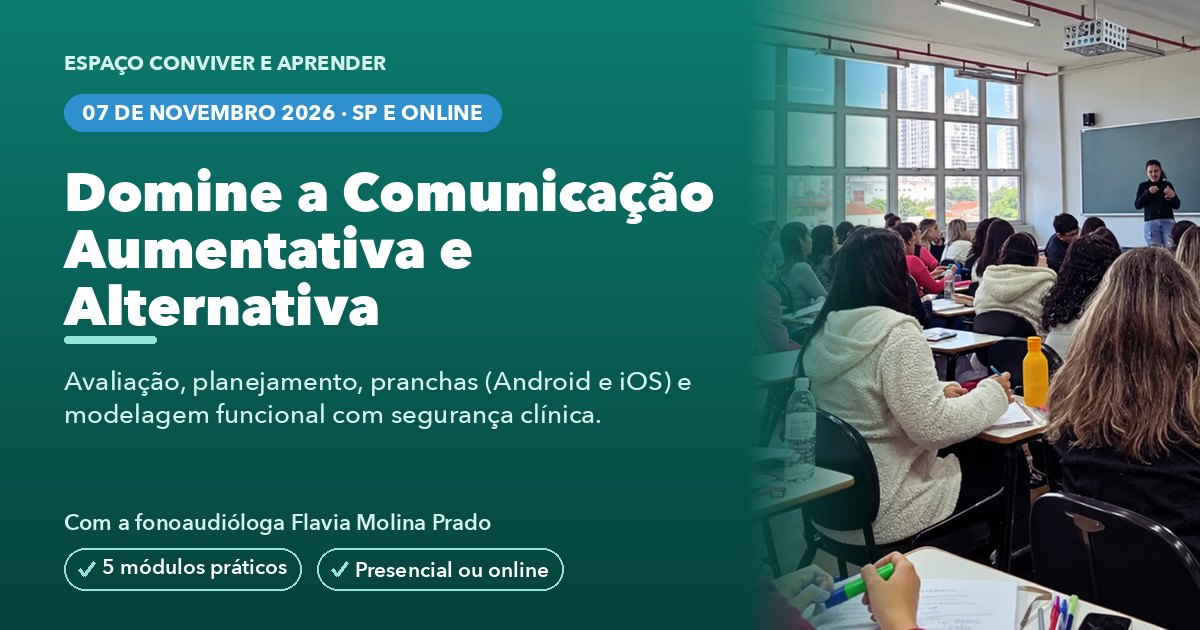
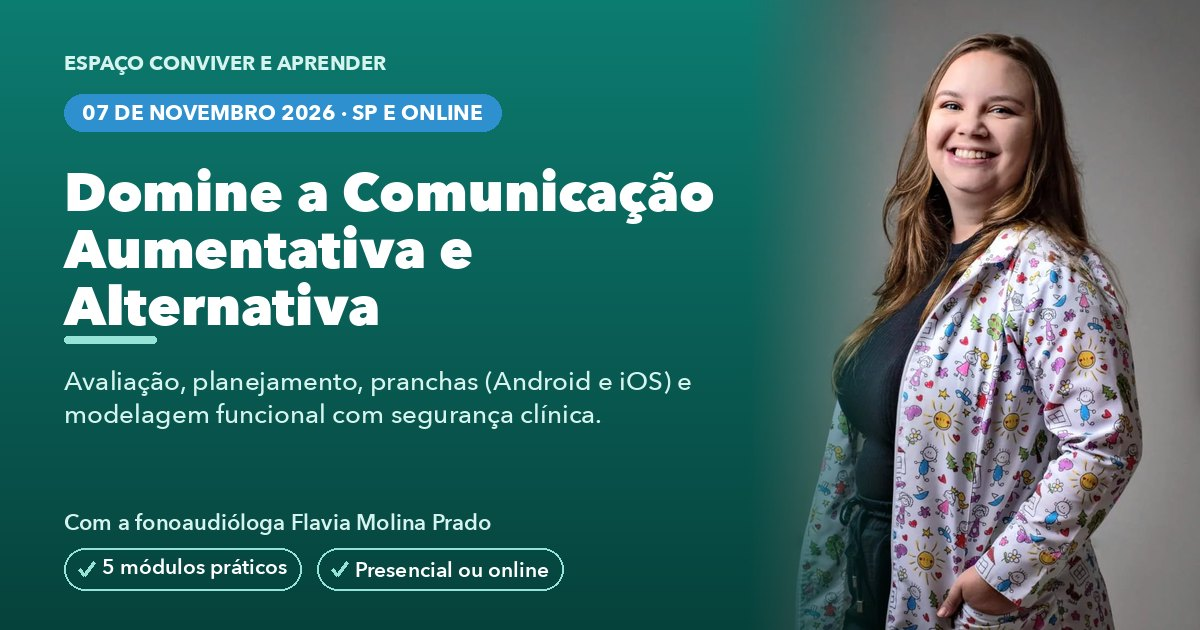
feat: fotos reais da pagina antiga do CAA (hero e professora Flavia + sala) e card OG

diff --git a/index.html b/index.html
@@ -509,7 +509,7 @@ footer a{color:var(--coral-2)}
         <a class="btn btn-wa btn-lg" href="https://api.whatsapp.com/send?phone=5511948774794&text=Ol%C3%A1,%20vim%20do%20site%20e%20quero%20mais%20informa%C3%A7%C3%B5es%20sobre%20o%20Curso%20de%20CAA" target="_blank" rel="noopener"><svg viewBox="0 0 24 24" fill="currentColor"><path d="M17.5 14.4c-.3-.1-1.8-.9-2-1-.3-.1-.5-.1-.7.1-.2.3-.7 1-.9 1.1-.2.2-.3.2-.6.1-1.6-.8-2.6-1.4-3.7-3.2-.3-.5.3-.5.8-1.5.1-.2 0-.4 0-.5 0-.1-.7-1.6-.9-2.2-.2-.6-.5-.5-.7-.5h-.5c-.2 0-.5.1-.8.4-.3.3-1 1-1 2.5s1.1 2.9 1.2 3.1c.2.2 2.1 3.3 5.2 4.6 2 .8 2.7.9 3.7.8.6-.1 1.8-.8 2.1-1.5.3-.7.3-1.4.2-1.5z"/></svg>Falar no WhatsApp</a>
       </div>
       <div class="hero-photo-mobile">
-        <img src="assets/hero-aba.webp?v=1" alt="Formação presencial da Conviver e Aprender" width="1254" height="1254" style="object-position:center 42%">
+        <img src="assets/hero-caa.webp?v=1" alt="Flavia Molina Prado, fonoaudióloga do Curso de CAA" width="849" height="1280" style="object-position:center 22%">
         <span class="hv-seal"><small>AO VIVO</small><b>07/11</b><small>2026</small></span>
         <div class="hv-cap"><span>Com a fonoaudióloga <b>Flavia Molina Prado</b></span></div>
       </div>
@@ -524,7 +524,7 @@ footer a{color:var(--coral-2)}
     </div>
     <div class="hv">
       <div class="hv-frame">
-        <img src="assets/hero-aba.webp?v=1" alt="Formação presencial da Conviver e Aprender" width="1254" height="1254" fetchpriority="high" style="object-position:center 42%">
+        <img src="assets/hero-caa.webp?v=1" alt="Flavia Molina Prado, fonoaudióloga do Curso de CAA" width="849" height="1280" fetchpriority="high" style="object-position:center 22%">
         <span class="hv-seal"><small>AO VIVO</small><b>07/11</b><small>2026</small></span>
         <div class="hv-cap"><span>Com a fonoaudióloga <b>Flavia Molina Prado</b></span></div>
       </div>
@@ -617,7 +617,7 @@ footer a{color:var(--coral-2)}
   <div class="wrap">
     <div class="section-head rv"><span class="eyebrow"><span class="dot"></span>Quem vai te formar</span><h2>Conheça sua professora</h2></div>
     <div class="profs" style="grid-template-columns:1fr;max-width:640px">
-      <div class="prof pcard rv"><div class="mono">FM</div><div><h3>Flavia Molina Prado</h3><div class="role">Fonoaudióloga (FMU) · Especialista em desenvolvimento infantil</div><p>Fonoaudióloga formada pela FMU e apaixonada pelo desenvolvimento infantil. Ajuda crianças e adolescentes a desenvolver uma comunicação eficaz, atuando principalmente nas áreas de transtornos da aquisição de fala e linguagem, leitura e escrita, Transtorno do Espectro do Autismo e Comunicação Aumentativa e Alternativa.</p></div></div>
+      <div class="prof pcard rv"><img class="pfoto" src="assets/flavia.webp?v=1" alt="Flavia Molina Prado com uma prancha de CAA" width="64" height="64" loading="lazy"><div><h3>Flavia Molina Prado</h3><div class="role">Fonoaudióloga (FMU) · Especialista em desenvolvimento infantil</div><p>Fonoaudióloga formada pela FMU e apaixonada pelo desenvolvimento infantil. Ajuda crianças e adolescentes a desenvolver uma comunicação eficaz, atuando principalmente nas áreas de transtornos da aquisição de fala e linguagem, leitura e escrita, Transtorno do Espectro do Autismo e Comunicação Aumentativa e Alternativa.</p></div></div>
     </div>
   </div>
 </section>
@@ -636,7 +636,7 @@ footer a{color:var(--coral-2)}
         </div>
         <div style="margin-top:22px"><a class="btn btn-ghost-d" href="https://www.google.com/maps/search/?api=1&query=Rua+Maria+Eugenia+Celso+28+Artur+Alvim+Sao+Paulo" target="_blank" rel="noopener">Ver o local no mapa →</a></div>
       </div>
-      <img src="assets/sala.webp" alt="Estrutura da sala do curso" width="1280" height="720" loading="lazy">
+      <img src="assets/sala.webp?v=2" alt="Sala do curso presencial em São Paulo" width="1280" height="720" loading="lazy">
     </div>
   </div>
 </section>
